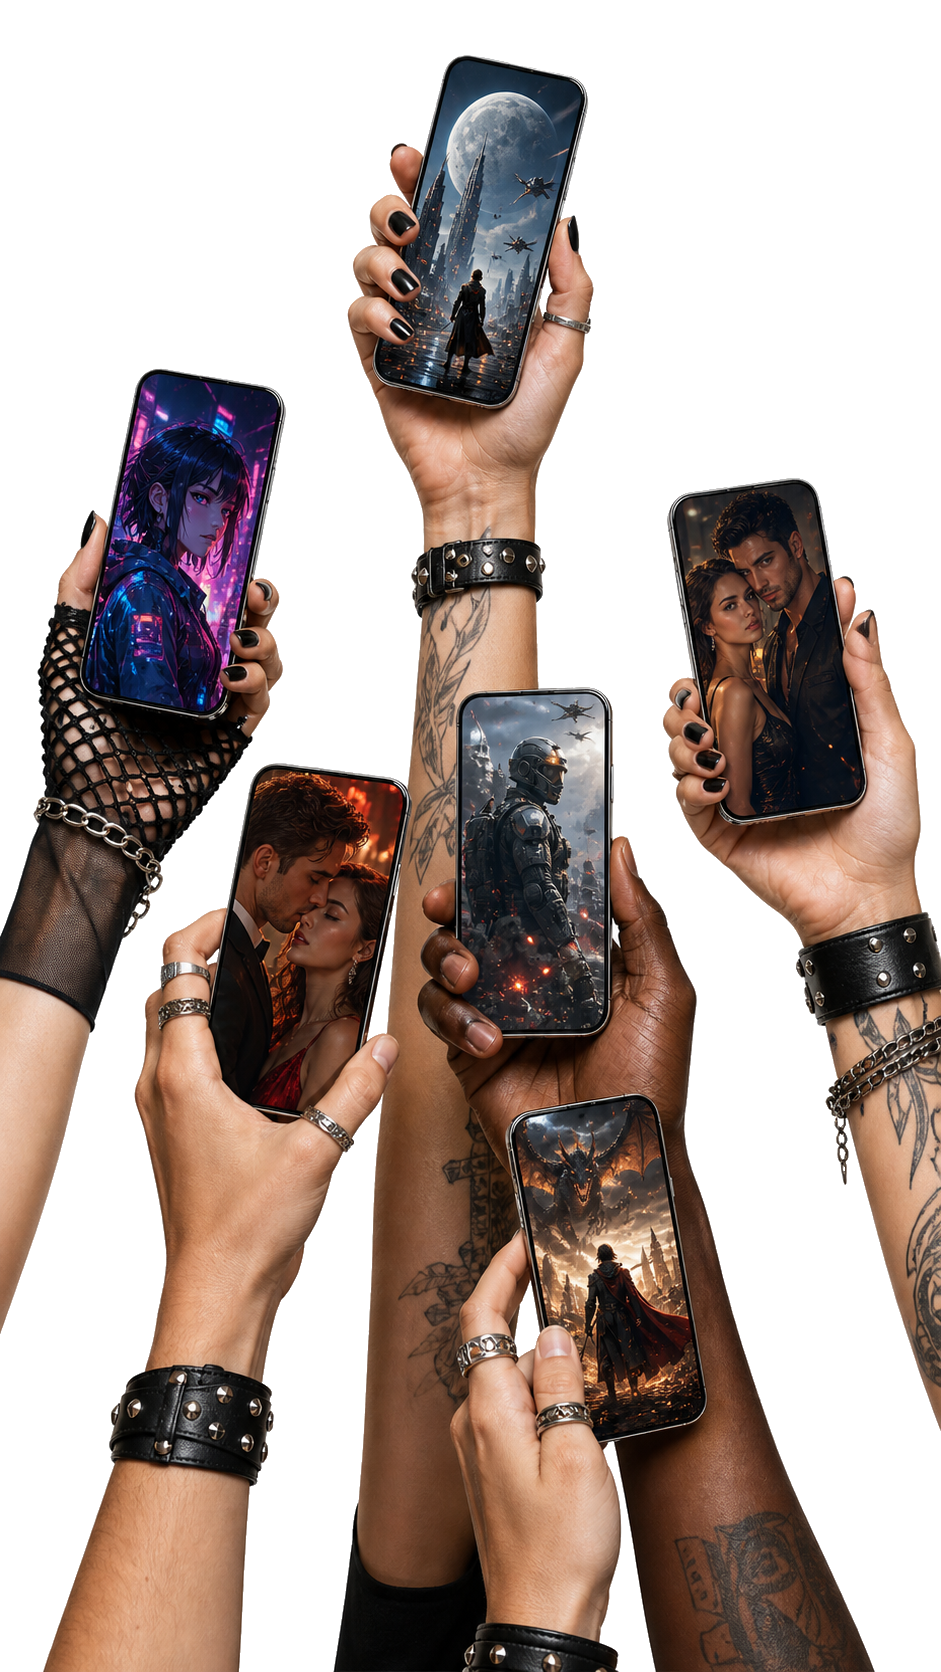
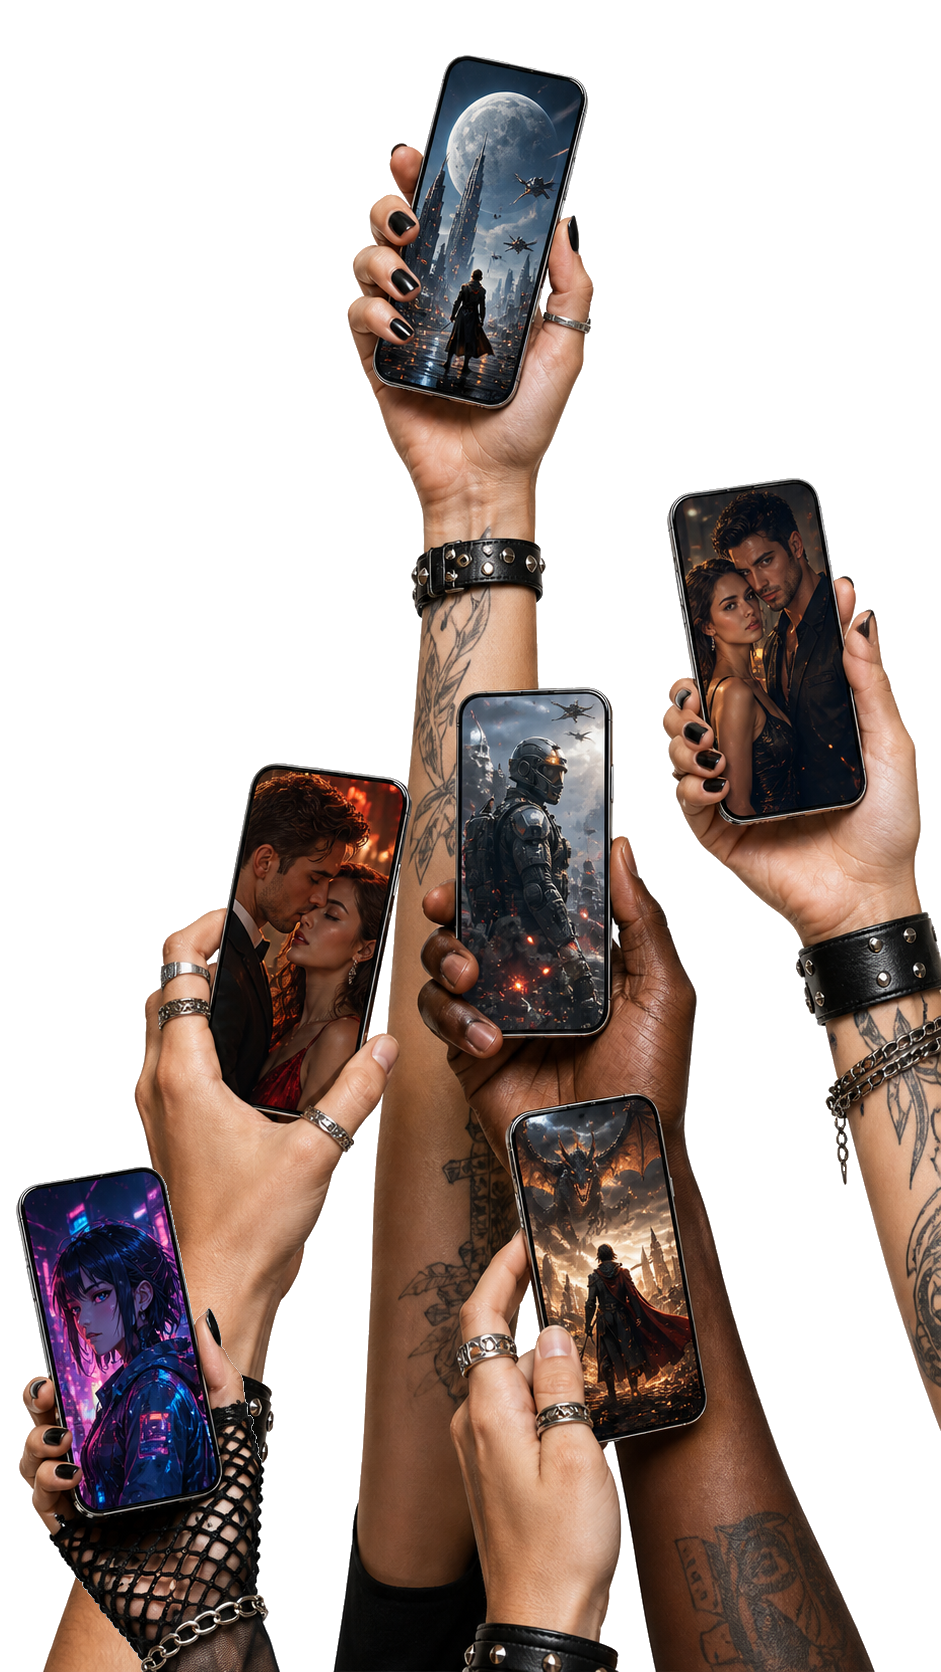
Changes

Changed region(s): [[0.0, 0.2177, 0.3082, 1.0]]

diff --git a/src/components/landing/About.tsx b/src/components/landing/About.tsx
@@ -24,9 +24,9 @@ const About = () => {
       const vh = window.innerHeight;
       // distance from viewport center, normalized like useParallax
       const center = rect.top + rect.height / 2 - vh / 2;
-      // Same magnitude as title parallax (0.45) but applied as % horizontal translation
-      // Clamp to a subtle range so it just peeks in/out
-      const t = Math.max(-25, Math.min(25, (center / vh) * 25));
+      // Static while entering / centered, slides slightly off-left only as it leaves upward (center < 0)
+      const norm = center / vh; // negative when leaving above viewport
+      const t = norm < 0 ? Math.max(-20, norm * 30) : 0;
       setArmTranslate(t);
     };
     const onScroll = () => {
